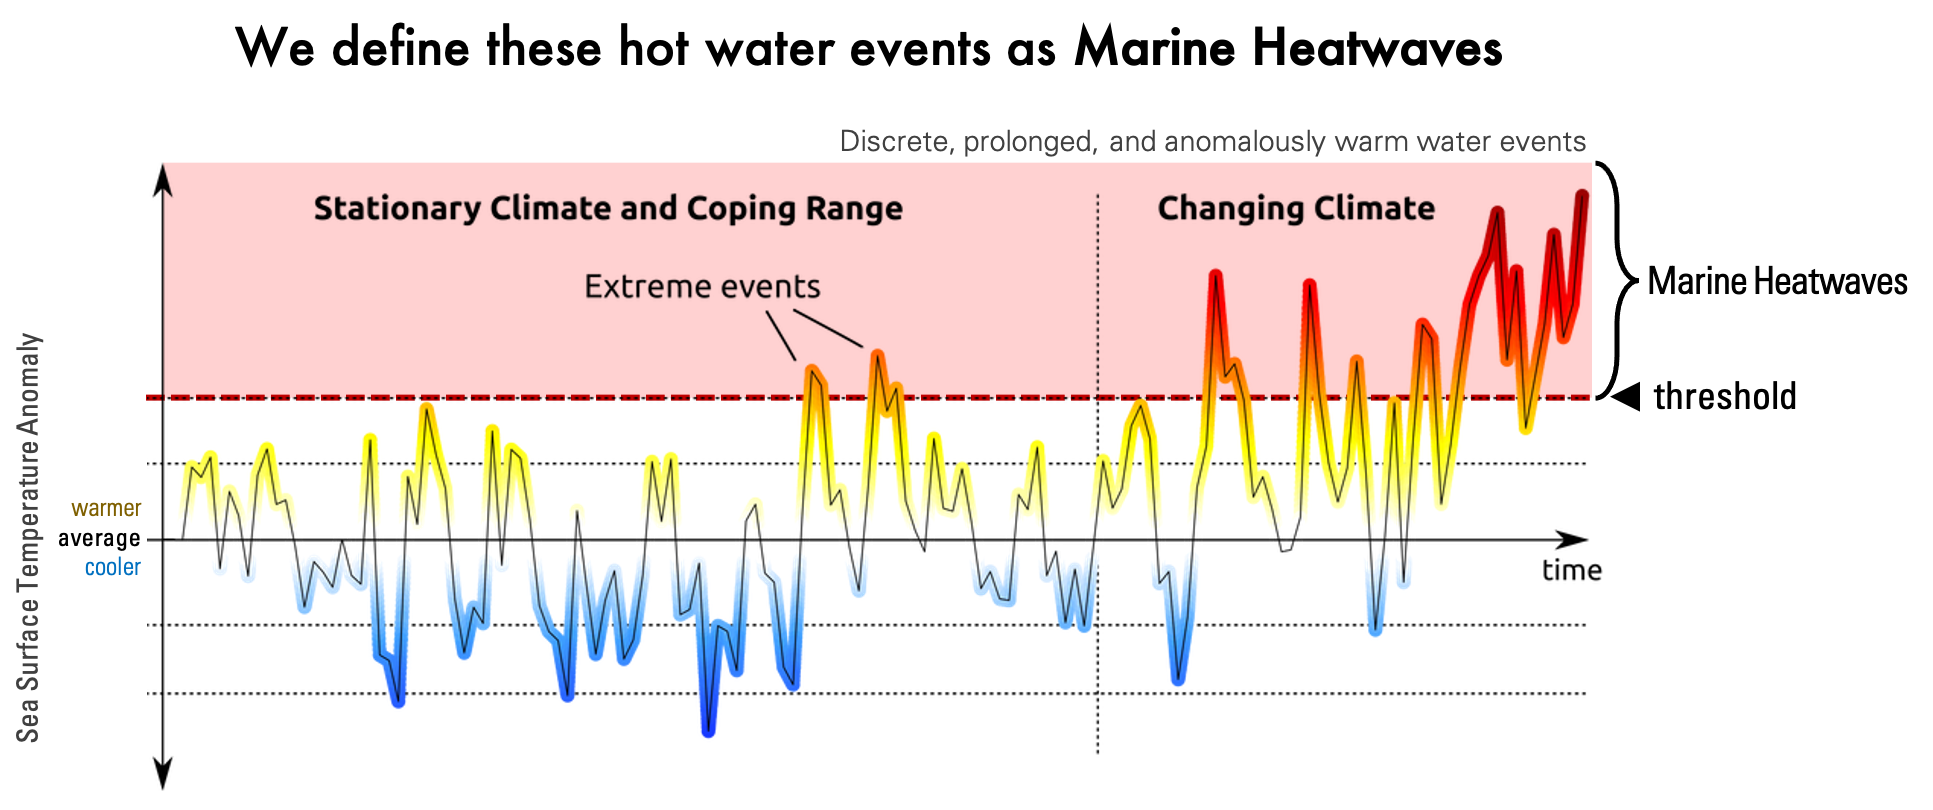
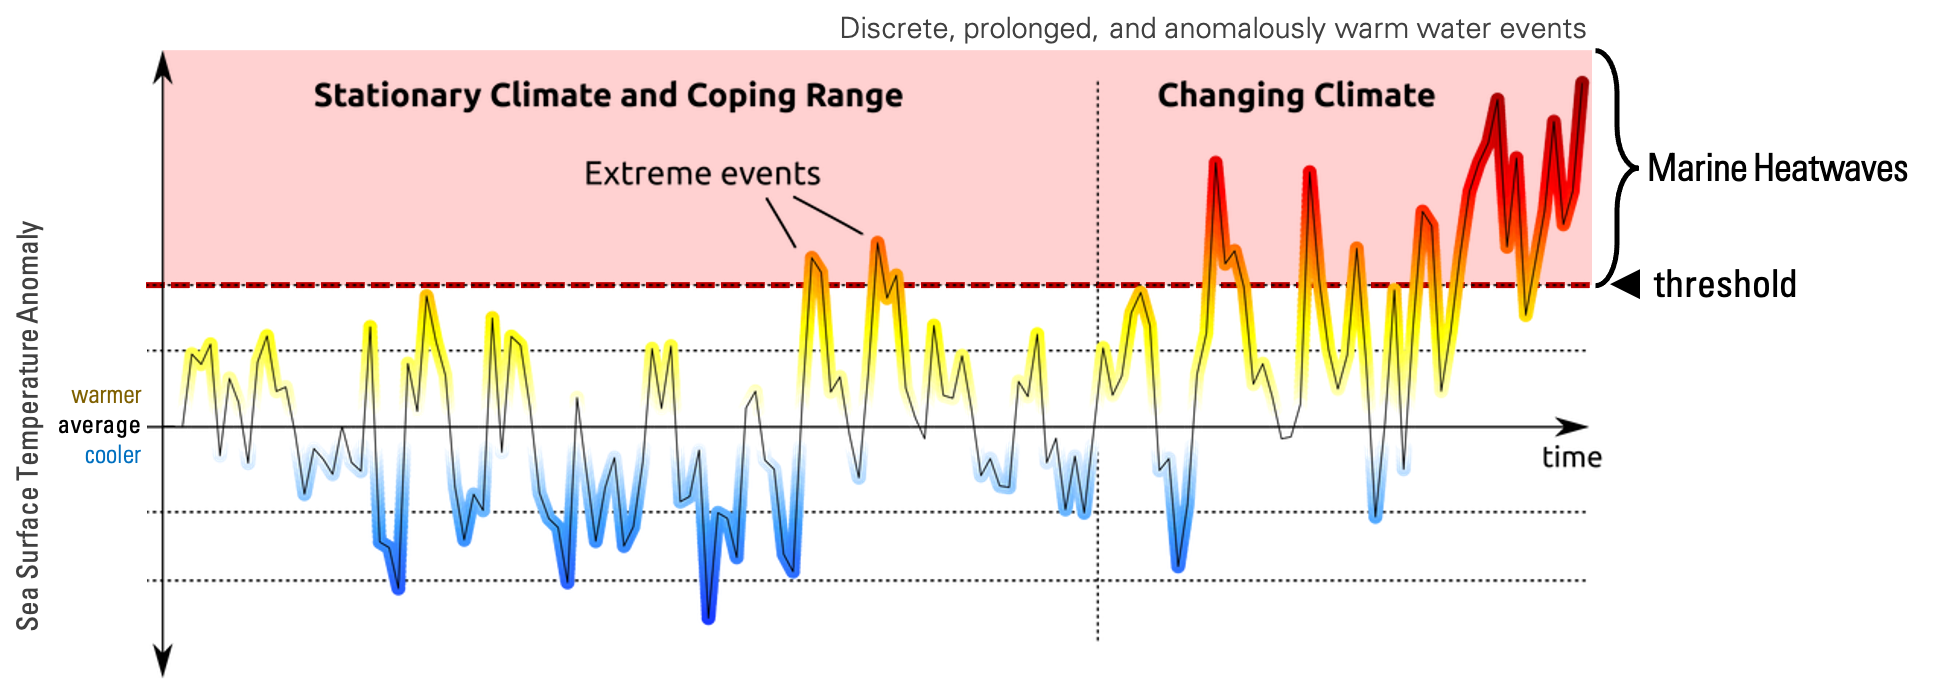
resize text

diff --git a/index.html b/index.html
@@ -14103,7 +14103,7 @@ div.jp-OutputPrompt {
 <!-- color: #2d2422 --></p>
 <div align="center">
     <img src="./images/ocetrac_logo_transparent.png" width=300/>
-    <h2><span style="font:tradegothic; color:gray">Morphological image processing for monitoring ocean temperature extremes</span></h2>
+    <h3><span style="font:tradegothic; color:gray">Morphological image processing for monitoring ocean temperature extremes</span></h3>
     <hr>
 </div>
 </div>
@@ -14125,7 +14125,7 @@ div.jp-OutputPrompt {
 <div class="jp-Cell-inputWrapper"><div class="jp-InputPrompt jp-InputArea-prompt">
 </div><div class="jp-RenderedHTMLCommon jp-RenderedMarkdown jp-MarkdownOutput " data-mime-type="text/markdown">
 <p><div align="center">
-    <img src="./images/title_footer.png" width=1000/>
+    <img src="./images/title_footer.png" width=100%/>
 </div>
 <br></p>
 
@@ -14159,6 +14159,7 @@ Dangerous hot-water events, called marine heatwaves, cause prolonged periods of 
 <!-- color: #2d2422 --></p>
 <div align="center">
     <img src="./images/trend_as_map.png" width=100%/>
+    <h2><span style="font:futura; color:black">Warming is not spatially homogenous</span></h2>
 </div>
 </div>
 </div></section><section>
@@ -14167,6 +14168,7 @@ Dangerous hot-water events, called marine heatwaves, cause prolonged periods of 
 <p><!-- background: #fff4e3-->
 <!-- color: #2d2422 --></p>
 <div align="center">
+    <h2><span style="font:futura; color:black">Many species can cope with natural temperature fluctuations</span></h2>
     <img src="./images/natural_temp.png" width=100%/>
 </div>
 </div>
@@ -14176,6 +14178,7 @@ Dangerous hot-water events, called marine heatwaves, cause prolonged periods of 
 <p><!-- background: #fff4e3-->
 <!-- color: #2d2422 --></p>
 <div align="center">
+    <h2><span style="font:futura; color:black">As temperatures rise, heat extremes become more deadly</span></h2>
     <img src="./images/anthropogenic_temp.png" width=100%/>
 </div>
 </div>
@@ -14185,7 +14188,18 @@ Dangerous hot-water events, called marine heatwaves, cause prolonged periods of 
 <p><!-- background: #fff4e3-->
 <!-- color: #2d2422 --></p>
 <div align="center">
+    <h2><span style="font:futura; color:black">We define these hot water events as Marine Heatwaves</span></h2>
     <img src="./images/mhw_explanation.png" width=100%/>
+</div>
+</div>
+</div>
+<div class="jp-Cell-inputWrapper"><div class="jp-InputPrompt jp-InputArea-prompt">
+</div><div class="jp-RenderedHTMLCommon jp-RenderedMarkdown jp-MarkdownOutput " data-mime-type="text/markdown">
+<p><!-- background: #fff4e3-->
+<!-- color: #2d2422 --></p>
+<div align="center">
+    <h2><span style="font:futura; color:black">Marine heatwaves occur throughout the global ocean</span></h2>
+    <img src="./images/Frolicher_Laufkotter.png" width=100%/>
 </div>
 </div>
 </div></section></section><section><section>
